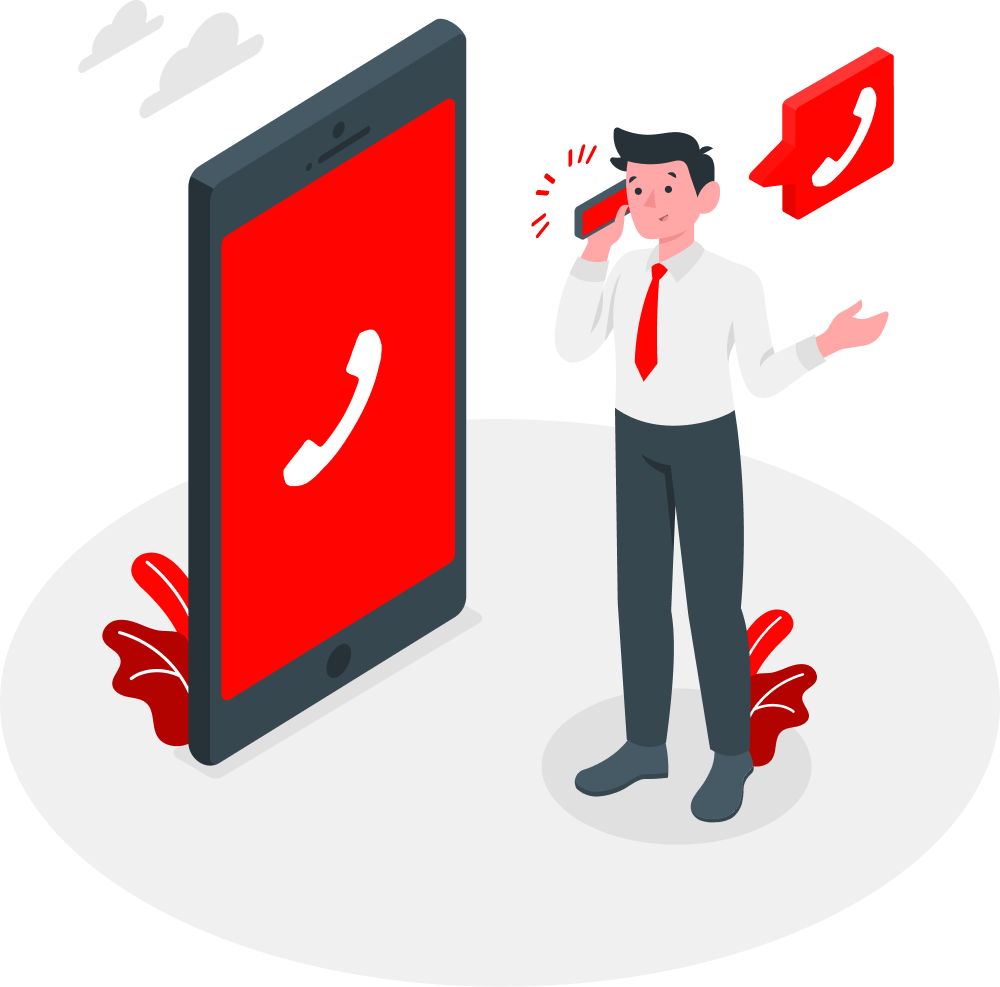
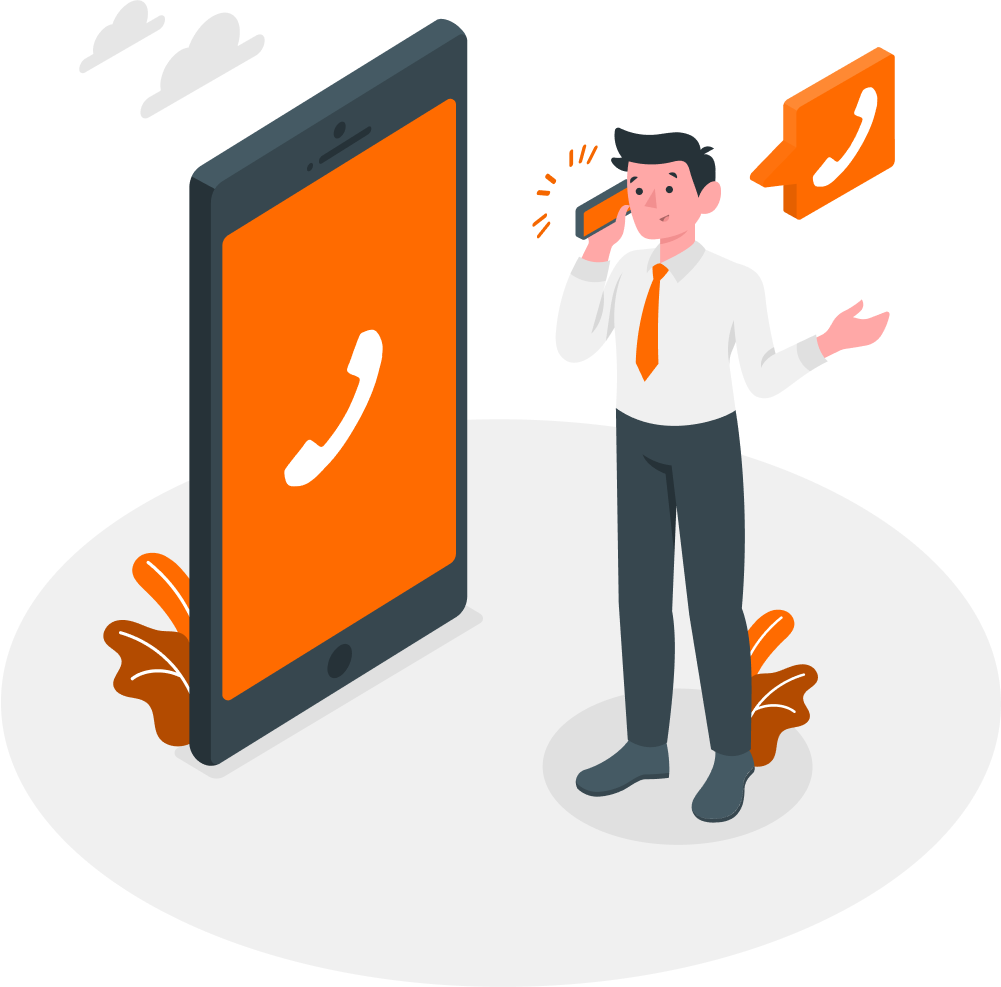
bump casestudy 4

diff --git a/bumpcall.html b/bumpcall.html
@@ -235,89 +235,98 @@
             <h2 class="cs_header">Design</h2>
             <div class="cs_content">
                 <div class="cs_content_title">
-                    <h3><b>Initial Concept</b></h3>
+                    <h3><b>Decisions</b></h3>
                 </div>
                 <div class="cs_content_text">
-                    <h4 class="h4sub">Information Architecture</h4>
-                    <p>After deciding on what key features and desirables would be most important to users, I organized an informal list by page to structure the website.</p>
-                    <img class="figma_cs_imgs" src="/images/casestudy_imgs_bucsa/figma_website_outline.png" alt="Information Architecture Drafted on Figma">
-                    <h4 class="h4sub">Low-Fidelity Wireframes</h4>
-                    <p>Time was short and I knew that the development side would take up a lot, so I drew wireframes to guide my designs and visual hierarchy.</p>
-                    <div id="bucsa_lofi">
-                        <img src="/images/casestudy_imgs_bucsa/lofiwireframe1.png" alt="BUCSA website lo-fi wireframes">
-                        <img src="/images/casestudy_imgs_bucsa/lofiwireframe2.png" alt="BUCSA website lo-fi wireframes">
-                    </div>
                     <h4 class="h4sub">Design System</h4>
-                    <p>With a lot of grays and very few hints of red on the original WordPress page, I made sure the brand of the Ambassadors had some flair, so I utilized the contrast between the bright red and smooth black, and added a lot of small accent colors.</p>
-                    <img src="/images/casestudy_imgs_bucsa/figma_stylesheet.png" alt="Website Design System Stylesheet" class="figma_cs_imgs">
+                    <p>Going through the entire Figma design, the first point of discussion was changing the color. With saturated oranges (and blues for a DND view), the color palette needed a makeover.</p>
+                    <br>
+                    <p>Working with orange was new for me and thus, posed a challenge to find tints and tones to compliment it without taking away the striking effect of the orange. <b>Orange is not a very popular color</b>. Orange is exciting, but can be overwhelming. <b>It signifies energy and enthusiasm, and draws attention</b>. As a result, the selection of the secondary and utility colors were chosen to be more muted colors to accentuate the orange.</p>
                 </div>
+            </div>
+            <img src="/images/casestudy_imgs_bump/bump_color_scheme.png" alt="bumpcall new color scheme" class="figma_cs_imgs2">
+            <div class="cs_content">
+                <div class="cs_content_title">
+                </div>
+                <div class="cs_content_text">
+                    <h4 class="h4sub">Landing Screen</h4>
+                    <p>Building off the new color palette, I designed several variations of the default landing screen and the DND landing screen. While the co-founder opted for the orange radial background because of its familiarity, I pushed for neutral tone base colors as the background because of <b>the higher level of contrast between the background and the CTA button — the bump</b>. Unfortunately, that suggestion was not successful.</p>
+                    <br>
+                    <p>The other components of the page were designed with a mind for minimalism, as we wanted users to simply think about bumping into a friend as biggest priority at the time. Experimenting with icons and drop shadows, </p>
+                </div>
+            </div>
+            <div class="cs_overview_img">
+                <img src="/images/casestudy_imgs_bump/bump_landing_screens.png" alt="bumpcall new landing screen iterations" style="display: block; margin-left: auto; margin-right: auto; max-width: 1000px;">
+                <img src="/images/casestudy_imgs_bump/bump_landing_screens_components.png" alt="bumpcall new landing screen component variations" style="display: block; margin-left: auto; margin-right: auto; max-width: 1000px;">
             </div>
             <div class="cs_content">
                 <div class="cs_content_title">
-                    <h3><b>Design Decisions</b></h3>
                 </div>
                 <div class="cs_content_text">
-                    <h4 class="h4sub">Nav & Footer</h4>
-                    <p>These were the two consistent elements recurring on every page. Knowing a lot of students would be viewing on their mobile devices, I made sure to design mobile responsive views.</p>
-                    <div class="griditem twocol">
-                        <div class="colgrid">
-                            <img class="figma_cs_imgs" src="/images/casestudy_imgs_bucsa/bucsa_nav_mobile.png" alt="Mobile Responsive Nav Bar Mockup">
-                            <img class="figma_cs_imgs2" src="/images/casestudy_imgs_bucsa/bucsa_nav.png" alt="Desktop Nav Bar Mockup">
-                            <img class="figma_cs_imgs2" src="/images/casestudy_imgs_bucsa/bucsa_nav_active.png" alt="Mobile Responsive Nav Bar with Active State Mockup">
-                        </div>
-                        <div class="colgrid">
-                            <img class="figma_cs_imgs2" src="/images/casestudy_imgs_bucsa/bucsa_footer.png" alt="Footer Mockup">
-                        </div>
-                    </div>
-                    <h4 class="h4sub">Landing Page</h4>
-                    <p>From previous experience, I learned that a landing page is the biggest bottleneck to retaining a user. As the user scrolls down, the website unfolds the story behind the Ambassadors. From a call for community to personal anecdotes, each section emphasizes a collective mindset using the "Our..." pronoun.</p>
-                </div>
-            </div>
-            <div class="griditem threecol">
-                <img src="/images/casestudy_imgs_bucsa/bucsa_home_hero.png" alt="Landing Home Hero" class="figma_cs_imgs2">
-                <img src="/images/casestudy_imgs_bucsa/bucsa_home_mission.png" alt="Landing Home Mission" class="figma_cs_imgs2">
-                <img src="/images/casestudy_imgs_bucsa/bucsa_home_community.png" alt="Landing Home Community" class="figma_cs_imgs2">
-            </div>
-            <div class="griditem threecol">
-                <img src="/images/casestudy_imgs_bucsa/bucsa_home_clubs.png" alt="Landing Home Clubs"  class="figma_cs_imgs2">
-                <img src="/images/casestudy_imgs_bucsa/bucsa_home_mailing.png" alt="Landing Home Mailing List" class="figma_cs_imgs2">
-            </div>
-            <div class="cs_content">
-                <div class="cs_content_title">
-                    <h3><b></b></h3>
-                </div>
-                <div class="cs_content_text">
-                    <h4 class="h4sub">Consistent Hero Designs</h4>
-                    <p>I'm a proud user of <a href="https://storyset.com/">Storyset</a> graphics. The range of artstyles is very versatile and it adds a lot of flavor to what could simply be an informative hero page. With a relevant graphic to accompany the content, users would find more interest browsing.</p>
-                </div>
-            </div>
-            <div class="griditem threecol">
-                <img src="/images/casestudy_imgs_bucsa/landing_ambassadors.png" alt="Ambassadors Hero Screen" class="figma_cs_imgs2">
-                <img src="/images/casestudy_imgs_bucsa/landing_mentor.png" alt="Mentor Hero Screen" class="figma_cs_imgs2">
-                <img src="/images/casestudy_imgs_bucsa/landing_resources.png" alt="Resources Hero Screen" class="figma_cs_imgs2">
-            </div>
-            <div class="cs_content">
-                <div class="cs_content_title">
-                    <h3><b></b></h3>
-                </div>
-                <div class="cs_content_text">
-                    <h4 class="h4sub">Final Design</h4>
-                    <p>I've never programmed a website from scratch <b>all by myself</b> so as the lone developer, I gave myself a week and a few days to not only implement the technologies, but learn some along the way. Below are the final implementations of each main page (excluding the landing page seen above)!</p>
+                    <h4 class="h4sub">Loading Screens</h4>
+                    <p>Rather than an infinite spinning wheel overlay when clicking the bump button, I designed a series of loading screens that would not only make a wait time more enjoyable, but also <b>prompt the user to think of questions</b> along the way.</p>
                 </div>
             </div>
             <div class="griditem fivecol">
-                <img src="/images/casestudy_imgs_bucsa/bucsa_mentorship.png" alt="Mentorship Full Page" class="figma_cs_imgs2">
-                <img src="/images/casestudy_imgs_bucsa/bucsa_about.png" alt="About Us Full Page" class="figma_cs_imgs2">
-                <img src="/images/casestudy_imgs_bucsa/bucsa_ambassadors.png" alt="Ambassadors Full Page" class="figma_cs_imgs2">
-                <img src="/images/casestudy_imgs_bucsa/bucsa_resources.png" alt="Resources Full Page" class="figma_cs_imgs2">
-                <img src="/images/casestudy_imgs_bucsa/bucsa_contact.png" alt="Contact Us Full Page" class="figma_cs_imgs2">
+                <img src="/images/casestudy_imgs_bump/bump_loading1.png" alt="bumpcall loading screen" class="figma_cs_imgs2">
+                <img src="/images/casestudy_imgs_bump/bump_loading2.png" alt="bumpcall loading screen" class="figma_cs_imgs2">
+                <img src="/images/casestudy_imgs_bump/bump_loading3.png" alt="bumpcall loading screen" class="figma_cs_imgs2">
+                <img src="/images/casestudy_imgs_bump/bump_loading4.png" alt="bumpcall loading screen" class="figma_cs_imgs2">
+                <img src="/images/casestudy_imgs_bump/bump_loading5.png" alt="bumpcall loading screen" class="figma_cs_imgs2">
             </div>
             <div class="cs_content">
                 <div class="cs_content_title">
-                    <h3><b>Demo</b></h3>
                 </div>
                 <div class="cs_content_text">
-                    <iframe class="youtube_vid" width="560" height="315" src="https://www.youtube.com/embed/HP6hkymmq28" title="YouTube video player" frameborder="0" allow="accelerometer; autoplay; clipboard-write; encrypted-media; gyroscope; picture-in-picture" allowfullscreen></iframe>
+                    <p>To add more functionality, a swipe-up menu was added to allow the user to select questions or perhaps come up with their own. If companies were to sponsor this product, they could send in questions of their own.</p>
+                </div>
+            </div>
+            <div class="cs_overview_img">
+                <img src="/images/casestudy_imgs_bump/bump_loading6.png" alt="bumpcall loading screens" style="display: block; margin-left: auto; margin-right: auto; max-width: 600px;">
+            </div>
+            <div class="cs_content">
+                <div class="cs_content_title">
+                    <h3><b></b></h3>
+                </div>
+                <div class="cs_content_text">
+                    <h4 class="h4sub">Video Call Prompts</h4>
+                    <p>After selecting a prompt or writing one, a user can see the selected question at the bottom of the call. Similar to FaceTime, bumpcall offers a familiar video call experience.</p>
+                </div>
+            </div>
+            <div class="cs_overview_img">
+                <img src="/images/casestudy_imgs_bump/bump_video.png" alt="bumpcall video calls" style="display: block; margin-left: auto; margin-right: auto; max-width: 600px;">
+            </div>
+            <div class="cs_content">
+                <div class="cs_content_title">
+                    <h3><b></b></h3>
+                </div>
+                <div class="cs_content_text">
+                    <h4 class="h4sub">Friends List & Muting</h4>
+                    <p>While bumping into friends is fun, users in the focus group found that they bumped into some friends more than others and in some cases, friends that they would like to bump into less. A friends list with muting options allows them to control that more.</p>
+                </div>
+            </div>
+            <div class="cs_overview_img">
+                <img src="/images/casestudy_imgs_bump/bump_friends.png" alt="bumpcall friends list" style="display: block; margin-left: auto; margin-right: auto; max-width: 600px;">
+            </div>
+            <div class="cs_content">
+                <div class="cs_content_title">
+                    <h3><b></b></h3>
+                </div>
+                <div class="cs_content_text">
+                    <h4 class="h4sub">Invite Friends</h4>
+                    <p>Using bumpcall isn't any fun without friends. To make sure users can bump into their friends right away, we suggest they sync their contacts and invite them upon downloading!</p>
+                </div>
+            </div>
+            <div class="cs_overview_img">
+                <img src="/images/casestudy_imgs_bump/bump_invite_friends.png" alt="bumpcall invite and sync contacts" style="display: block; margin-left: auto; margin-right: auto; max-width: 800px;">
+            </div>
+            <div class="cs_content">
+                <div class="cs_content_title">
+                    <h3><b>Future</b></h3>
+                </div>
+                <div class="cs_content_text">
+                    <h4 class="h4sub">Gamification</h4>
+                    <p>Right before departing bumpcall, another section that was under consideration was a way to gamify the product. I had come up with ideas for badges, points, and rewards but hadn't implemented them by the time I left.</p>
                 </div>
             </div>
         </section>
@@ -329,10 +338,14 @@
                     <h3><b>Conclusions</b></h3>
                 </div>
                 <div class="cs_content_text">
-                    <h4 class="h4sub">Awarded first place!</h4>
-                    <p>This project was certainly a lot different from the ones I tackled before because I had the job of fully designing and developing the product. I learned to value <b>the compromises between ideation and feasible design</b>. While I wish my teammates could put as much effort in as I did, I learned a lot about what I could manage and what I excel at.</p>
+                    <h4 class="h4sub">How about that start-up culture?</h4>
+                    <p>Taking on a role at a start-up was something else. I was a Product/UX Designer, Graphic Designer, Marketer, and more. I made iterations of logos that fell short. I created graphics for the Instagram. I designed wireframe after wireframe. Was it worth it? <b>Absolutely.</b></p>
                     <br>
-                    <p>The next step is to collaborate with the Ambassadors to get the website up and running on their end. It was an absolute pleasure spending countless hours night after night to not only get a finished product turned in, but a clean, polished redesign that accounted for as many factors as possible.</p>
+                    <p>To see your work on your phone screen as an actual part of the product, to see it interact with the user, and to get constructive feedback by other users is nothing short of remarkable. I've gone to my fair share of hackathons and designathons before, but this was a full product, with no 36-hour rush.</p>
+                    <br>
+                    <p>While it was frustrating at first to explain to one of the co-founders why the menu bar among other components couldn't all use glassmorphism or why the orange needed other colors, it was a pleasure building on my experiences both as a designer and as a leader (especially in the last few weeks post-junior spring semester).</p>
+                    <br>
+                    <p>Unfortunately, all things must come to an end and my time with bumpcall was cut short as a result of decision to pursue another internship at BU Spark!</p>
                     <br>
                     <p><b>Thanks for reading!</b></p>
                 </div>

diff --git a/static/css/_casestudy.scss b/static/css/_casestudy.scss
@@ -146,6 +146,11 @@ span.highlightRed {
     height: auto;
 }
 
+img.figma_cs_imgs2 {
+    width: 100%;
+    height: auto;
+}
+
 #bucsa_lofi {
     margin: 2rem 0;
     display: grid;

diff --git a/static/css/main.css b/static/css/main.css
@@ -793,6 +793,11 @@ span.highlightRed {
   height: auto;
 }
 
+img.figma_cs_imgs2 {
+  width: 100%;
+  height: auto;
+}
+
 #bucsa_lofi {
   margin: 2rem 0;
   display: grid;
